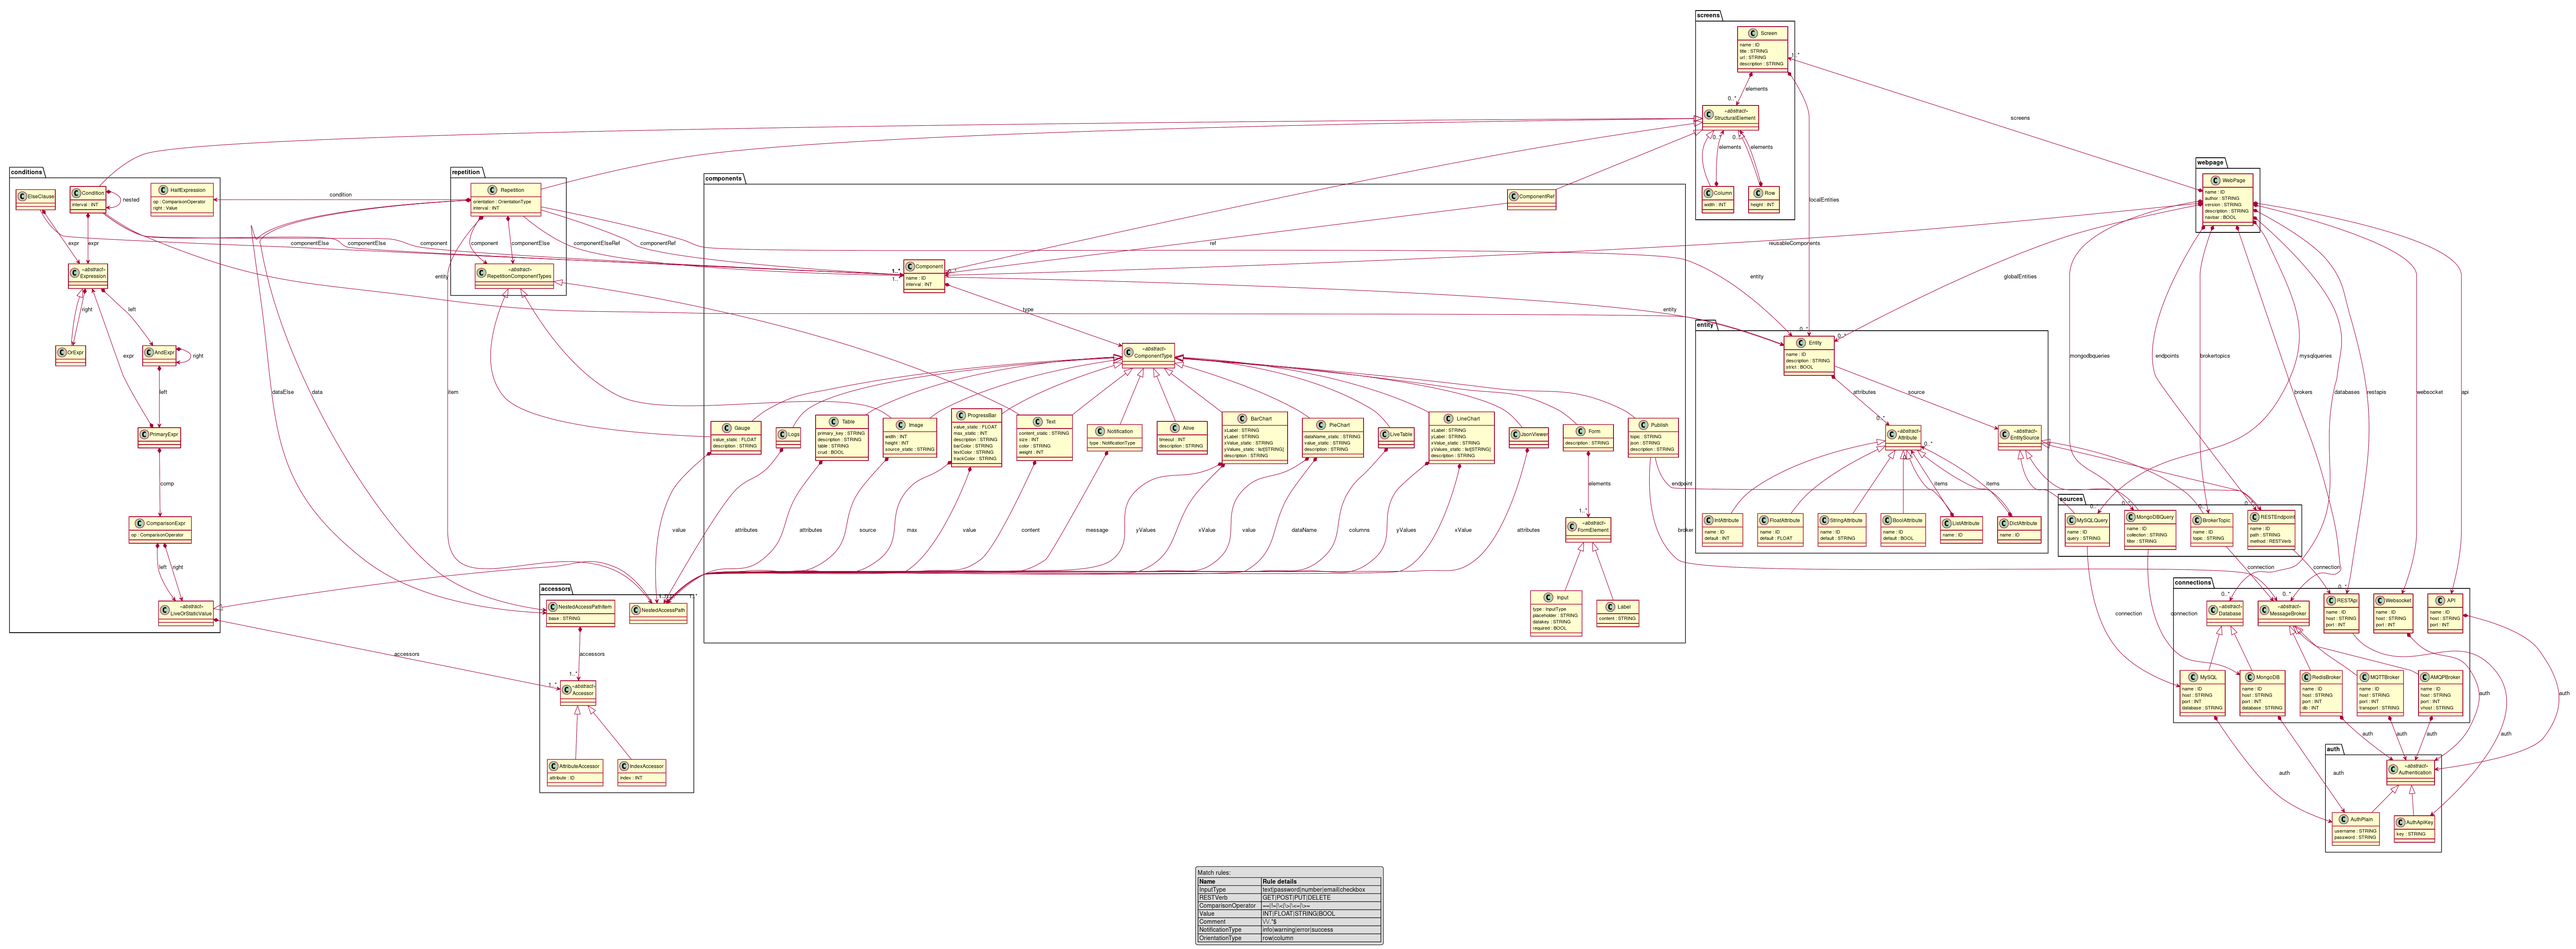
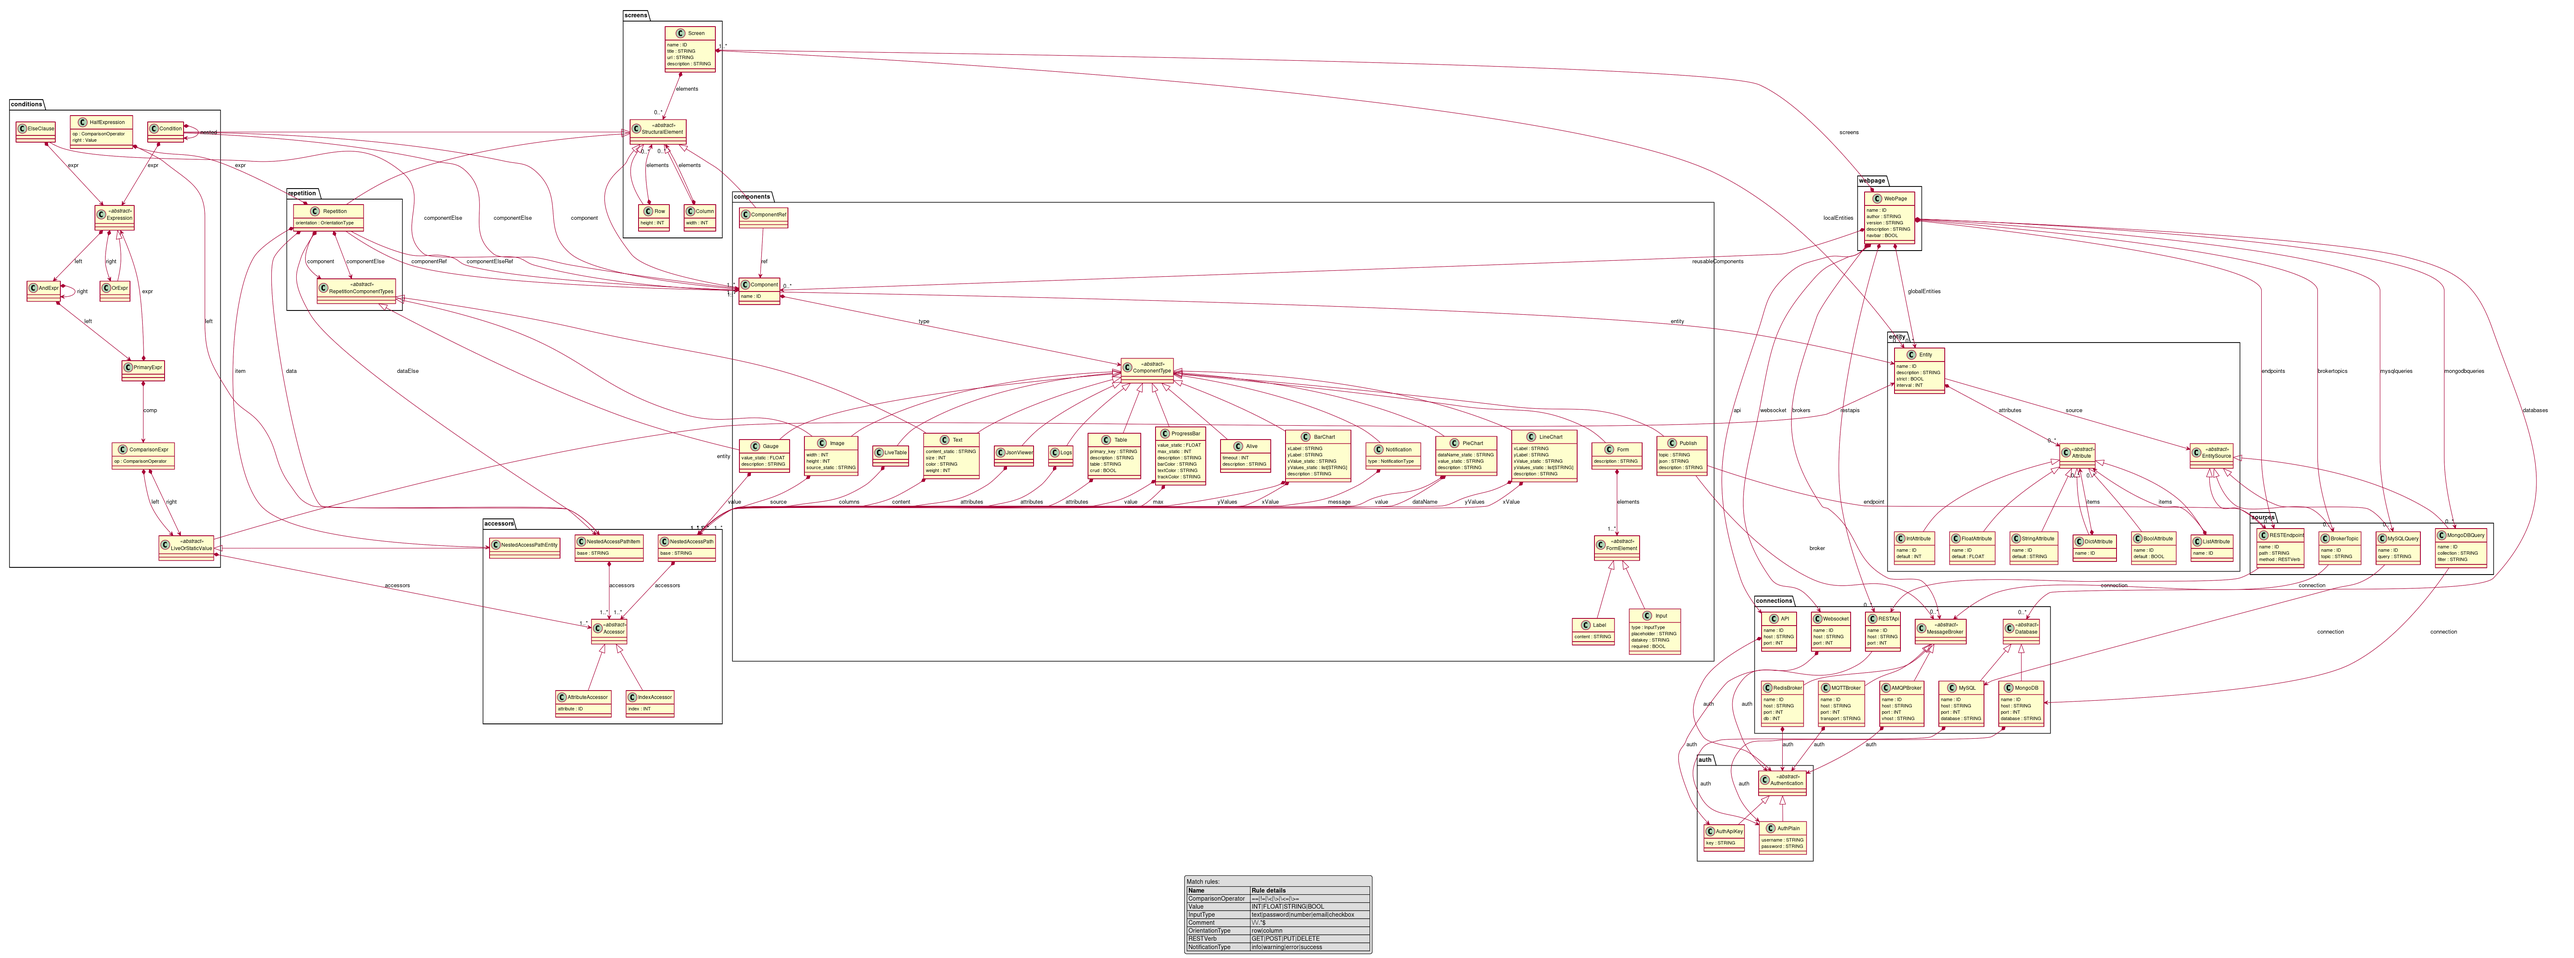
Removed unnecessary attributes from repetition

diff --git a/web_dsl/lib/repetition.py b/web_dsl/lib/repetition.py
@@ -2,12 +2,10 @@ class Repetition:
     def __init__(
         self,
         parent=None,
-        entity=None,
         item=None,
         component=None,
         data=None,
         expr=None,
-        condition=None,
         componentElse=None,
         componentRef=None,
         componentElseRef=None,
@@ -17,7 +15,6 @@ class Repetition:
 
         self.entities = set()
         self.parent = parent
-        self.entity = entity
         self.item = self.format_attribute_path(item)
         if data is not None:
             self.data = self.format_attribute_path(data)
@@ -46,25 +43,9 @@ class Repetition:
 
         self.entities_list = list(self.entities)
 
-        try:
-            entityRef = entity.source.connection.__class__.__name__
-        except AttributeError:
-            entityRef = None  # or "Unknown", or whatever fallback you prefer
-        source_map = {
-            "MQTTBroker": "broker",
-            "AMQPBroker": "broker",
-            "RedisBroker": "broker",
-            "RESTApi": "rest",
-            "Database": "db",
-            "MySQL": "db",
-            "MongoDB": "db",
-        }
-
-        self.sourceOfContent = source_map.get(entityRef, "static")
         self.condition = self.format_condition(expr)
         if self.condition == None:
             self.condition = "true"
-        print("Condition: ", self.condition)
 
     def format_attribute_path(self, path):
         """
@@ -99,7 +80,6 @@ class Repetition:
         Here we use Half Expression
         """
         if condition is not None:
-            # WE INITIALIZE THE CONDITION ARRAY WITH ONE ELEMENT BECAUSE WE WILL USE HALF EXPRESSION
             condition_array = []
             if hasattr(condition, "left") and condition.op is not None:
                 condition_array.append(self.format_attribute_path(condition.left))

diff --git a/web_dsl/validate.py b/web_dsl/validate.py
@@ -16,19 +16,19 @@ def validate_model(model):
         components_referencing_strict_entities
     )
 
-    # Validate repetitions with strict entities
-    all_repetitions = get_children_of_type("Repetition", model)
-    repetitions_to_check = [
-        r for r in all_repetitions if r.entity and r.entity in strict_entities
-    ]
-    for repetition in repetitions_to_check:
-        attribute_root = repetition.item[0]
-        strict_entity_attributes = repetition.entity.attributes
-        strict_entity_attributes_names = [a.name for a in strict_entity_attributes]
-        if attribute_root not in strict_entity_attributes_names:
-            errors.append(
-                f"Repetition uses attribute '{attribute_root}' not allowed by strict entity '{repetition.entity.name}'"
-            )
+    # # Validate repetitions with strict entities
+    # all_repetitions = get_children_of_type("Repetition", model)
+    # repetitions_to_check = [
+    #     r for r in all_repetitions if r.entity and r.entity in strict_entities
+    # ]
+    # for repetition in repetitions_to_check:
+    #     attribute_root = repetition.item[0]
+    #     strict_entity_attributes = repetition.entity.attributes
+    #     strict_entity_attributes_names = [a.name for a in strict_entity_attributes]
+    #     if attribute_root not in strict_entity_attributes_names:
+    #         errors.append(
+    #             f"Repetition uses attribute '{attribute_root}' not allowed by strict entity '{repetition.entity.name}'"
+    #         )
 
     # Validate conditions with strict entities
     # all_conditions = get_children_of_type("Condition", model)
